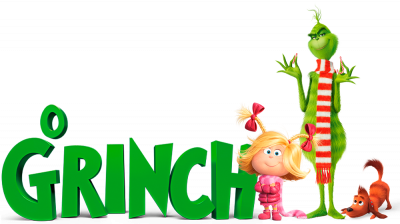
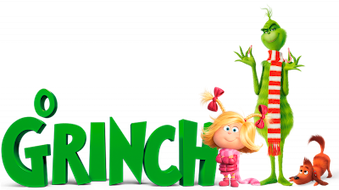
画像の大きさ変更

diff --git a/index.html b/index.html
@@ -90,7 +90,7 @@
                 <a href="https://abema.tv/video/episode/84-3wdbjjskc--_s1_p1000" target="_blunk"><img src="./assets/img/gossipgirl.jpeg" alt="gossipgirl"></a>
             </li>
             <li>
-                <a href="https://www.youtube.com/watch?v=oqeGueBbNvA" target="_blunk"><img src="./assets/img/HarryPotter.webp" alt="HarryPotter"></a>
+                <a href="https://www.youtube.com/watch?v=oqeGueBbNvA" target="_blunk"><img src="./assets/img/HarryPotter.jpg" alt="HarryPotter"></a>
             </li>
         </ul>
     </section>

diff --git a/assets/css/style.css b/assets/css/style.css
@@ -43,7 +43,7 @@ h3{
 } */
 
 img{
-    height: 190px;
+    /* height: 190px; */
     margin-right: 5px;
 }
 
